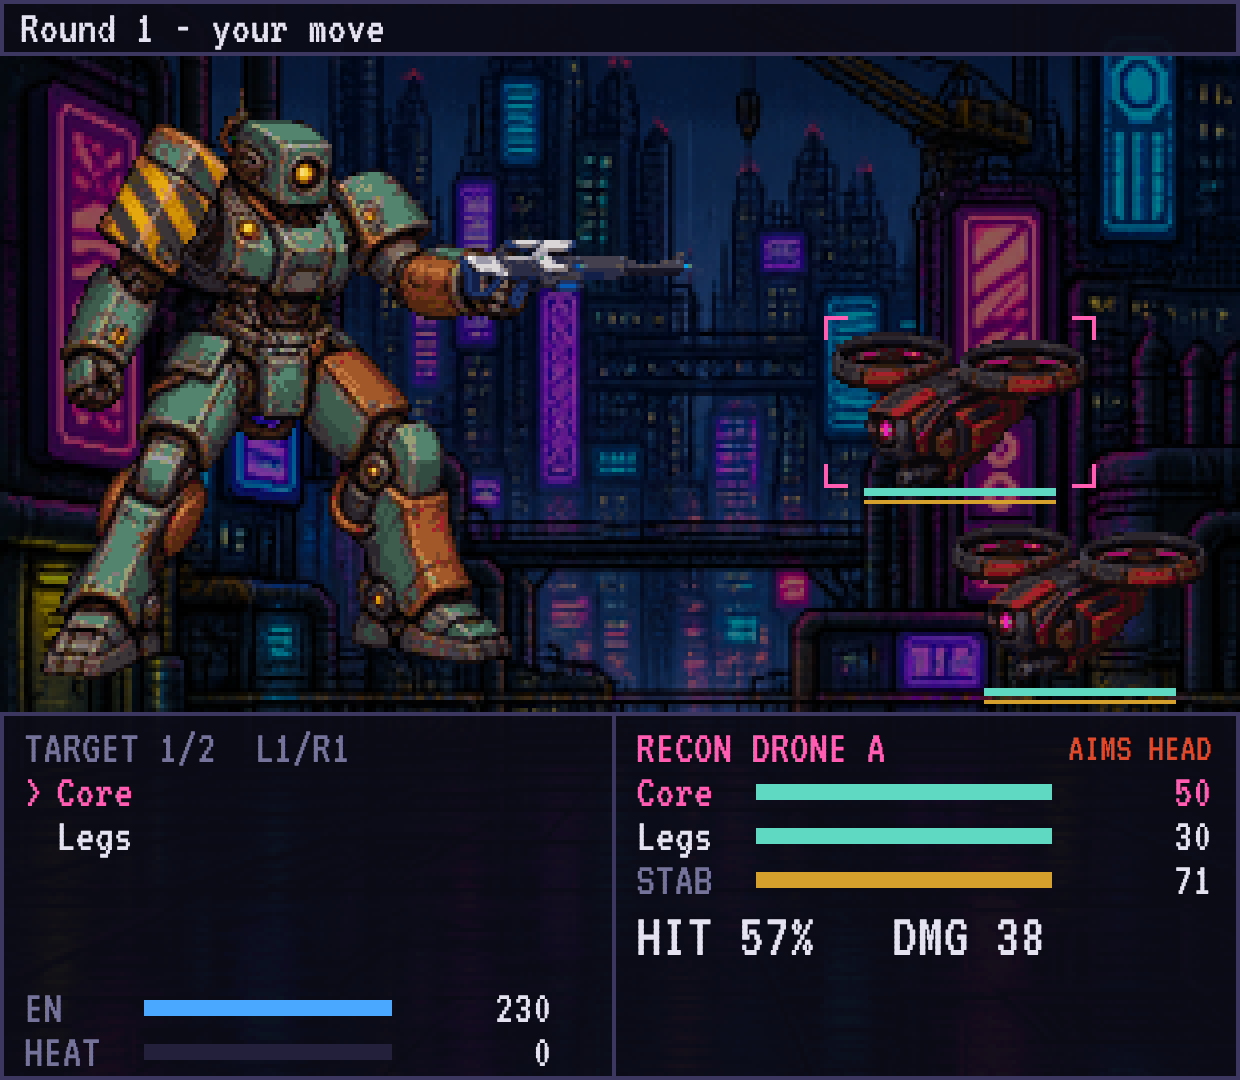
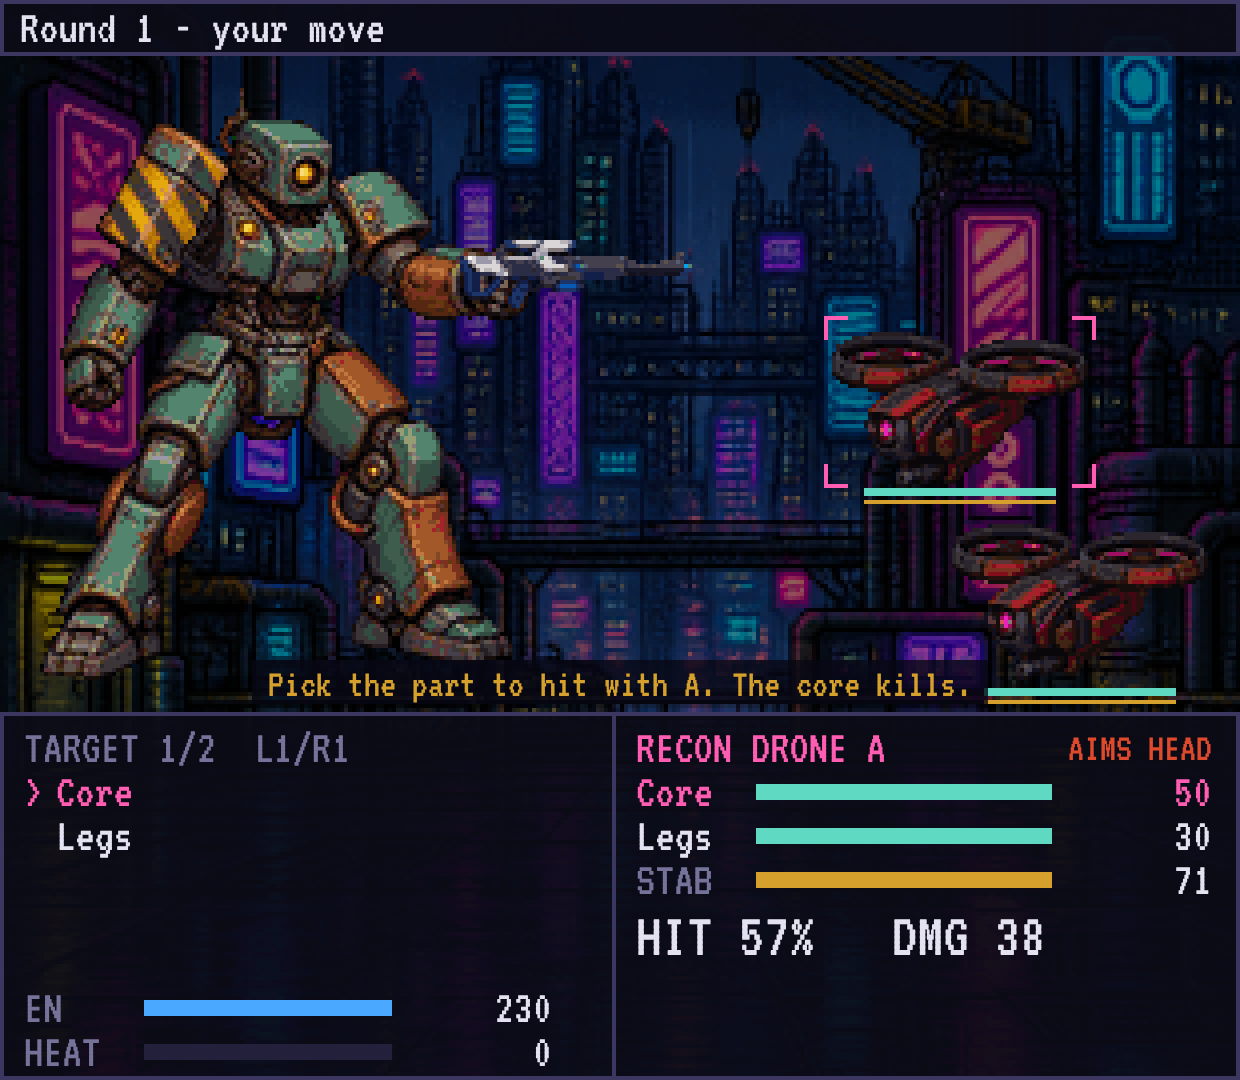
A new pilot is told which button does what in the first battles
Claude-Session: https://claude.ai/code/session_01D72L5UjxxzTBcVetS4xsP3

Changed region(s): [[0.2145, 0.6111, 0.7968, 0.6722]]

diff --git a/tests/ui/coach.test.ts b/tests/ui/coach.test.ts
@@ -1,0 +1,68 @@
+import { createBattle } from '../../src/core/battle';
+import { ENEMIES } from '../../src/content/enemies';
+import { CATALOG, DEMO_BUILD } from '../../src/content/parts';
+import { STRINGS } from '../../src/content/strings';
+import { BattleFlow, BattleScreen } from '../../src/ui/battleScreen';
+import type { SpriteStore } from '../../src/ui/sprites';
+import { accept, done, inHub, snap, strong } from '../helpers/app';
+
+const sprites: SpriteStore = { get: (id, fallback) => ({ image: { id } as unknown as CanvasImageSource, w: fallback.w, h: fallback.h }) };
+function recorder() {
+  const said: string[] = [];
+  const target: Record<string, unknown> = {};
+  const ctx = new Proxy(target, {
+    get: (t, name: string) => (name in t ? t[name] : name === 'measureText' ? () => ({ width: 10 })
+      : (...args: unknown[]) => { if (name === 'fillText') said.push(String(args[0])); }),
+    set: (t, name: string, value) => { t[name] = value; return true; },
+  }) as unknown as CanvasRenderingContext2D;
+  return { ctx, said };
+}
+function screenWith(coach: boolean) {
+  const flow = new BattleFlow(createBattle(DEMO_BUILD, [ENEMIES['recon-drone'], ENEMIES['recon-drone']], CATALOG, 7), CATALOG, { quiet: true });
+  const screen = new BattleScreen(flow, sprites, CATALOG, { fast: true, coach });
+  for (let i = 0; i < 50 && flow.phase !== 'action'; i++) screen.update(16);
+  const said = () => { const { ctx, said: s } = recorder(); screen.draw(ctx); return s; };
+  return { flow, screen, said };
+}
+
+describe('a new pilot is told which button does what', () => {
+  test('at each step of a turn: choosing what to do, which weapon, and which part', () => {
+    const { flow, screen, said } = screenWith(true);
+    expect(said()).toContain(STRINGS.coach.action);
+    screen.onInput('confirm');
+    expect(flow.phase).toBe('weapon');
+    expect(said()).toContain(STRINGS.coach.weapon);
+    screen.onInput('confirm');
+    expect(flow.phase).toBe('target');
+    expect(said()).toContain(STRINGS.coach.target);
+    expect(said()).not.toContain(STRINGS.coach.action);
+  });
+
+  test('a pilot who knows is told nothing', () => {
+    const { screen, said } = screenWith(false);
+    const all: string[] = Object.values(STRINGS.coach);
+    expect(said().filter((text) => all.includes(text))).toEqual([]);
+    screen.onInput('confirm');
+    expect(said().filter((text) => all.includes(text))).toEqual([]);
+  });
+
+  test('every line fits across the field in small letters', () => {
+    for (const line of Object.values(STRINGS.coach)) expect(line.length * 4, line).toBeLessThanOrEqual(300);
+  });
+
+  test('it lasts until the introductions are done, and is not said again when the story starts over', () => {
+    const coached = (app: Parameters<typeof snap>[0]) => (snap(app).battle as unknown as { coach: boolean }).coach;
+    const first = inHub().app;
+    accept(first, 'intro-1');
+    expect(coached(first)).toBe(true);
+    const second = inHub(strong(done('intro-1'))).app;
+    accept(second, 'intro-2');
+    expect(coached(second)).toBe(true);
+    const later = inHub(strong(done('intro-1', 'intro-2'))).app;
+    accept(later, 'patrol');
+    expect(coached(later)).toBe(false);
+    const again = inHub({ ...strong(done()), cycle: 1 }).app;
+    accept(again, 'intro-1');
+    expect(coached(again)).toBe(false);
+  });
+});

diff --git a/src/ui/app.ts b/src/ui/app.ts
@@ -189,10 +189,17 @@ class MissionHost implements Screen {
       fast, sfx, speed: this.app.settings.fastBattles ? FAST_BATTLE_SPEED : 1, paint: drill ? undefined : this.app.game!.paint,
       title: this.mission.title.toUpperCase(), rumble: (ms) => this.app.rumble(ms), jingle: (won) => this.app.jingle(won),
       ...(boss ? { boss: boss.name } : {}),
+      coach: this.coach,
       background: this.mission.battles[this.index].background,
       label: total > 1 ? STRINGS.mission.engagement(this.index + 1, total) : '',
       resultHint: this.hasNext() ? STRINGS.mission.next : STRINGS.hints.result,
     });
+  }
+
+  /** True for a pilot who has not finished the introductions of a first story: they are told which button does what. */
+  private get coach(): boolean {
+    const game = this.app.game;
+    return !!game && game.cycle === 0 && !introductionsDone(game, MISSIONS);
   }
 
   /** The contract's own scale times the difficulty the player chose. A drill is the same for everyone. */
@@ -285,6 +292,7 @@ class MissionHost implements Screen {
         objective: flow.objective?.text ?? null, spoken: flow.spoken?.text ?? null, replay: !!this.mission.replay,
         enemies: flow.state.units.filter((u) => u.side === 'enemy' && !u.destroyed).map((u) => u.kind ?? u.id),
         support: flow.state.support?.name ?? null,
+        coach: this.coach,
         // What the enemy being aimed at is about to do.
         intent: intentText(intentOf(flow.state, flow.state.units.find((u) => u.id === flow.targetId) ?? flow.state.units[0], this.app.deps.catalog)),
         enemyArmour: Object.values(flow.state.units[1].parts).reduce((sum, part) => sum + (part?.maxAp ?? 0), 0),

diff --git a/src/ui/battleScreen.ts b/src/ui/battleScreen.ts
@@ -112,6 +112,8 @@ export class BattleScreen {
        * in which case the sound effect for the outcome is left out: one fanfare is enough.
        */
       jingle?: (won: boolean) => boolean;
+      /** A new pilot: say over the field which button does what at each step of a turn. */
+      coach?: boolean;
     },
   ) {
     this.particles = new Particles(7, !opts.fast);
@@ -308,12 +310,23 @@ export class BattleScreen {
 
     this.drawMessage(ctx);
     this.drawObjective(ctx);
+    if (this.opts.coach && this.intro <= 0) this.drawCoach(ctx);
     // While someone talks, their words have the panel: there is nothing to choose until they are done.
     const talking = this.flow.phase === 'talk' && this.intro <= 0;
     if (!talking) this.drawBottom(ctx);
     if (this.intro > 0) return this.drawIntro(ctx);
     if (talking) this.drawTalk(ctx);
     if (this.flow.phase === 'result') this.drawResult(ctx);
+  }
+
+  /** For a new pilot: one small line at the foot of the field saying which button does what right now. */
+  private drawCoach(ctx: CanvasRenderingContext2D): void {
+    const line = (STRINGS.coach as Record<string, string>)[this.flow.phase];
+    if (!line) return;
+    const width = line.length * 4 + 8;
+    ctx.fillStyle = 'rgba(8, 8, 20, 0.8)';
+    ctx.fillRect(Math.round(LOGICAL_W / 2 - width / 2), PANEL_Y - 13, width, 11);
+    drawText(ctx, line, LOGICAL_W / 2, PANEL_Y - 12, { align: 'center', size: 10, color: COLORS.heat });
   }
 
   /** The banner that opens a battle: the contract and what it asks for, or a warning with the name of a boss. */

diff --git a/src/content/strings.ts b/src/content/strings.ts
@@ -96,6 +96,13 @@ export const STRINGS = {
   victory: 'VICTORY',
   defeat: 'DEFEAT',
   hints: { result: 'Press A to continue' },
+  // Said over the field in a new pilot's first battles: which button does what at this step.
+  coach: {
+    action: 'UP/DOWN: choose what to do   A: confirm',
+    weapon: 'Pick a weapon with A.   B: go back',
+    target: 'Pick the part to hit with A. The core kills.',
+    repairPart: 'Pick the part to patch with A.   B: go back',
+  },
   titleScreen: {
     tagline: 'Every contract pays. Not every pilot collects.',
     continue: 'Continue', newGame: 'New Game', loadGame: 'Load Game', options: 'Options',
